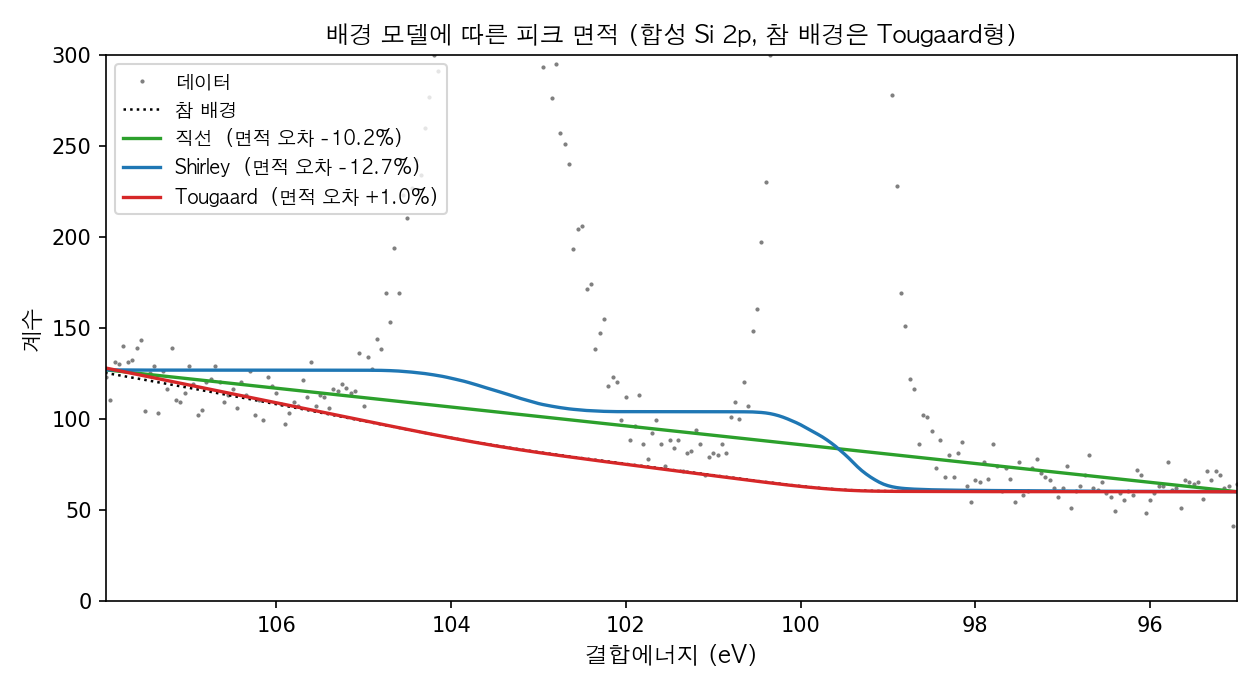
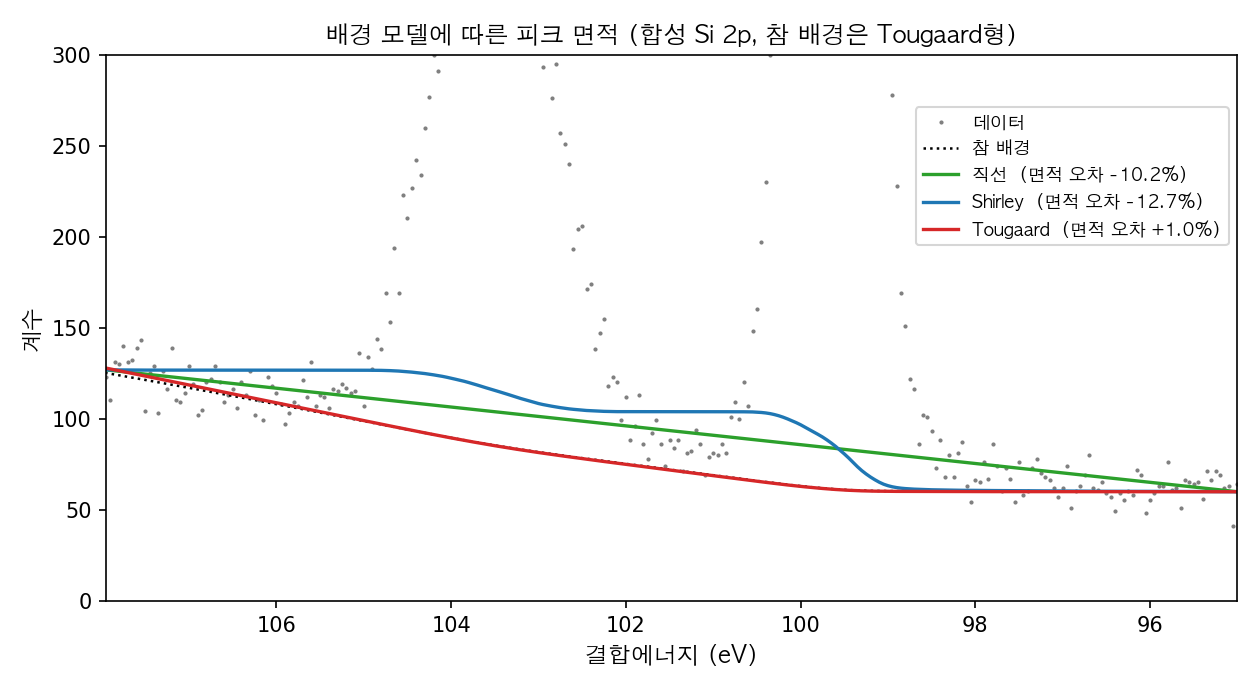
fix(post): xps-quantification-peak-fitting — 그림 다시 생성(범례·라벨 겹침, 그림 속 번호·캡션 제거)
그림을 다시 그려야 고칠 수 있던 경미 항목을 고쳤다. 데이터와 계산은 바꾸지 않았다.

근거: _references/xps-quantification-peak-fitting/audit-20261015.md (B 경미), 목록 _references/_fig-queue-20261015.md

Changed region(s): [[0.7119, 0.1526, 0.9905, 0.3663], [0.0929, 0.0916, 0.3405, 0.3052], [0.3405, 0.0916, 0.3714, 0.1221]]

diff --git a/_code/xps-quantification-peak-fitting/generate_figures.py b/_code/xps-quantification-peak-fitting/generate_figures.py
@@ -141,7 +141,8 @@ def render(L_):
         ax.set_ylim(0, 300)                 # 배경을 보이려고 세로축을 자른다
         ax.set_xlabel(L_["be"], fontsize=11, **F)
         ax.set_ylabel(L_["cps"], fontsize=11, **F)
-        ax.legend(prop={**LF, "size": 9}, loc="upper left")
+        ax.legend(prop={**LF, "size": 8.5}, loc="upper right",
+                  bbox_to_anchor=(1.0, 0.92))     # 피크가 없는 오른쪽 위 빈자리
         ax.set_title(L_["fig1"], fontsize=11.5, **F)
         fig.tight_layout()
         fig.savefig(os.path.join(out, "fig1-backgrounds.png"), dpi=150)
